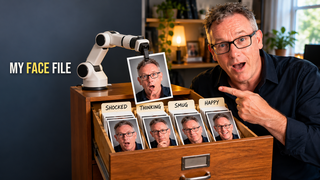
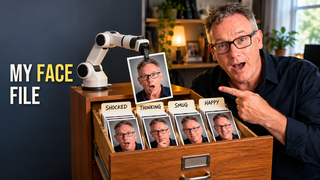
thumbnail-system: d06 ideas 1+3 re-made via compact pipeline; compositor 2-line wrap + brown pill; all-six board
Claude-Session: https://claude.ai/code/session_014RLV5b5M4nj6hMKHneKZ4d

Changed region(s): [[0.0312, 0.3333, 0.25, 0.5833]]

diff --git a/docs/briefs/thumbnail-system/tools/composite_headline.py b/docs/briefs/thumbnail-system/tools/composite_headline.py
@@ -39,29 +39,50 @@ else:
 d = ImageDraw.Draw(img)
 words = t['headline'].split()
 x0, y0, x1, y1 = zone
-size = 150
-while size > min_px:
-    f = ImageFont.truetype(FONT, size)
-    if d.textlength(' '.join(words), font=f) <= (x1 - x0) and size <= (y1 - y0): break
-    size -= 4
+zw, zh = x1 - x0, y1 - y0
+def fit(lines):
+    s = 170
+    while s > 20:
+        f = ImageFont.truetype(FONT, s)
+        if max(d.textlength(' '.join(l), font=f) for l in lines) <= zw and s * len(lines) * 0.95 <= zh + (s * 0.9 if len(lines) > 1 else 0): return s
+        s -= 4
+    return s
+one = [words]
+splits = [[words[:i], words[i:]] for i in range(1, len(words))]
+best2 = max(splits, key=fit) if splits else one
+size, lines = (fit(one), one)
+if splits and fit(best2) > size * 1.25: size, lines = fit(best2), best2   # wrap only when it buys real size
+if size < min_px: print('WARNING: headline below minimum', size, file=sys.stderr)
 f = ImageFont.truetype(FONT, size)
-total = d.textlength(' '.join(words), font=f)
-x = x0 if 'left' in name or name == 'spec' else (x1 - total if 'right' in name else x0 + ((x1 - x0) - total) / 2)
-y = y0 if 'top' in name or name == 'spec' else y1 - size
-
+lh = int(size * 0.92)
+block_h = lh * len(lines)
+yb = y0 if 'top' in name or name == 'spec' else y1 - block_h
 shadow = Image.new('RGBA', img.size, (0, 0, 0, 0)); sd = ImageDraw.Draw(shadow)
-sd.text((x + 3, y + 4), ' '.join(words), font=f, fill=(0, 0, 0, 170))
+for i, l in enumerate(lines):
+    tw = d.textlength(' '.join(l), font=f)
+    lx = x0 if 'left' in name or name == 'spec' else (x1 - tw if 'right' in name else x0 + (zw - tw) / 2)
+    sd.text((lx + 3, yb + i * lh + 4), ' '.join(l), font=f, fill=(0, 0, 0, 170))
 img.paste(Image.new('RGB', img.size, 'black'), (0, 0), shadow.filter(ImageFilter.GaussianBlur(6)))
+if '--pill' in sys.argv:   # AppyDave brown panel behind the text: works on busy ground
+    ov = Image.new('RGBA', img.size, (0, 0, 0, 0)); od = ImageDraw.Draw(ov)
+    widths = [d.textlength(' '.join(l), font=f) for l in lines]
+    bx0 = min((x0 if 'left' in name or name == 'spec' else (x1 - w if 'right' in name else x0 + (zw - w) / 2)) for w in widths)
+    od.rounded_rectangle([bx0 - 22, yb - 4, bx0 + max(widths) + 22, yb + block_h + size * 0.12], radius=16, fill=(52, 45, 45, 225))
+    img.paste(ov, (0, 0), ov)
 d = ImageDraw.Draw(img)
-for word in words:
-    w = d.textlength(word, font=f); fill = color
-    key = word.strip('?!.').upper()
-    if hl and key == hl.strip('?!.'):
-        d.rounded_rectangle([x - 10, y + size * .14, x + w + 10, y + size], radius=10, fill='#ffde59'); fill = '#342d2d'
-    elif key in accent_words:
-        fill = accent.get('color', '#ffde59')
-    d.text((x, y), word, font=f, fill=fill)
-    x += w + d.textlength(' ', font=f)
+for i, l in enumerate(lines):
+    tw = d.textlength(' '.join(l), font=f)
+    x = x0 if 'left' in name or name == 'spec' else (x1 - tw if 'right' in name else x0 + (zw - tw) / 2)
+    y = yb + i * lh
+    for word in l:
+        w = d.textlength(word, font=f); fill = color
+        key = word.strip('?!.').upper()
+        if hl and key == hl.strip('?!.'):
+            d.rounded_rectangle([x - 10, y + size * .14, x + w + 10, y + size], radius=10, fill='#ffde59'); fill = '#342d2d'
+        elif key in accent_words:
+            fill = accent.get('color', '#ffde59')
+        d.text((x, y), word, font=f, fill=fill)
+        x += w + d.textlength(' ', font=f)
 img.save(out)
 img.resize((320, 180), Image.LANCZOS).save(out.replace('.png', '-320.png'))
-print(out, name, size)
+print(out, name, size, len(lines), 'line(s)')

diff --git a/docs/briefs/thumbnail-system/videos/d06/runs/v3-NOTES.md b/docs/briefs/thumbnail-system/videos/d06/runs/v3-NOTES.md
@@ -4,3 +4,9 @@
 - B5 compact: the same idea as ONE ~2.3k-char JSON (`scenes/d06-b5-casting-call.prompt.json`) pasted directly. Result as good as or better than the long brief. **This is the method now.**
 - Compositor now auto-picks the calmest zone and fits the text. Gap: no 2-line wrap yet, so B6's headline came out small (62px, under the 64 minimum).
 - Chats: b4 6ab8b589-fb6c-83ec-8b37-80af447c9939 · b5 6ab8b58d-b7cc-83ec-8c8c-2ce8b05dfd18 · b6 6ab8b591-112c-83ec-8345-f5f27c0ed51f · b5-compact 6ab8b719-8088-83ec-ab63-89d247153612
+
+## Ideas 1 + 3 re-made with the compact pipeline (13:4x)
+- a1 6ab8b888-e8a0-83ec-acac-4e5985c230a2, a3 6ab8b88c-1148-83ec-a8ee-9d44920dad8c. Scene files `scenes/d06-a1-ai-picked-this.json`, `scenes/d06-a3-thumbnail-machine.json`.
+- Board style held with no light show. In a3, ChatGPT added a thumbnail-within-a-thumbnail (a YouTube card), which is a nice touch.
+- Compositor: added 2-line wrap and `--pill` (brown AppyDave panel). Auto zone fails on plain surfaces (a shirt reads as "calm"), so named zone + pill is the reliable mode.
+- `d06-selection-board-all6.png` = all six ideas.
